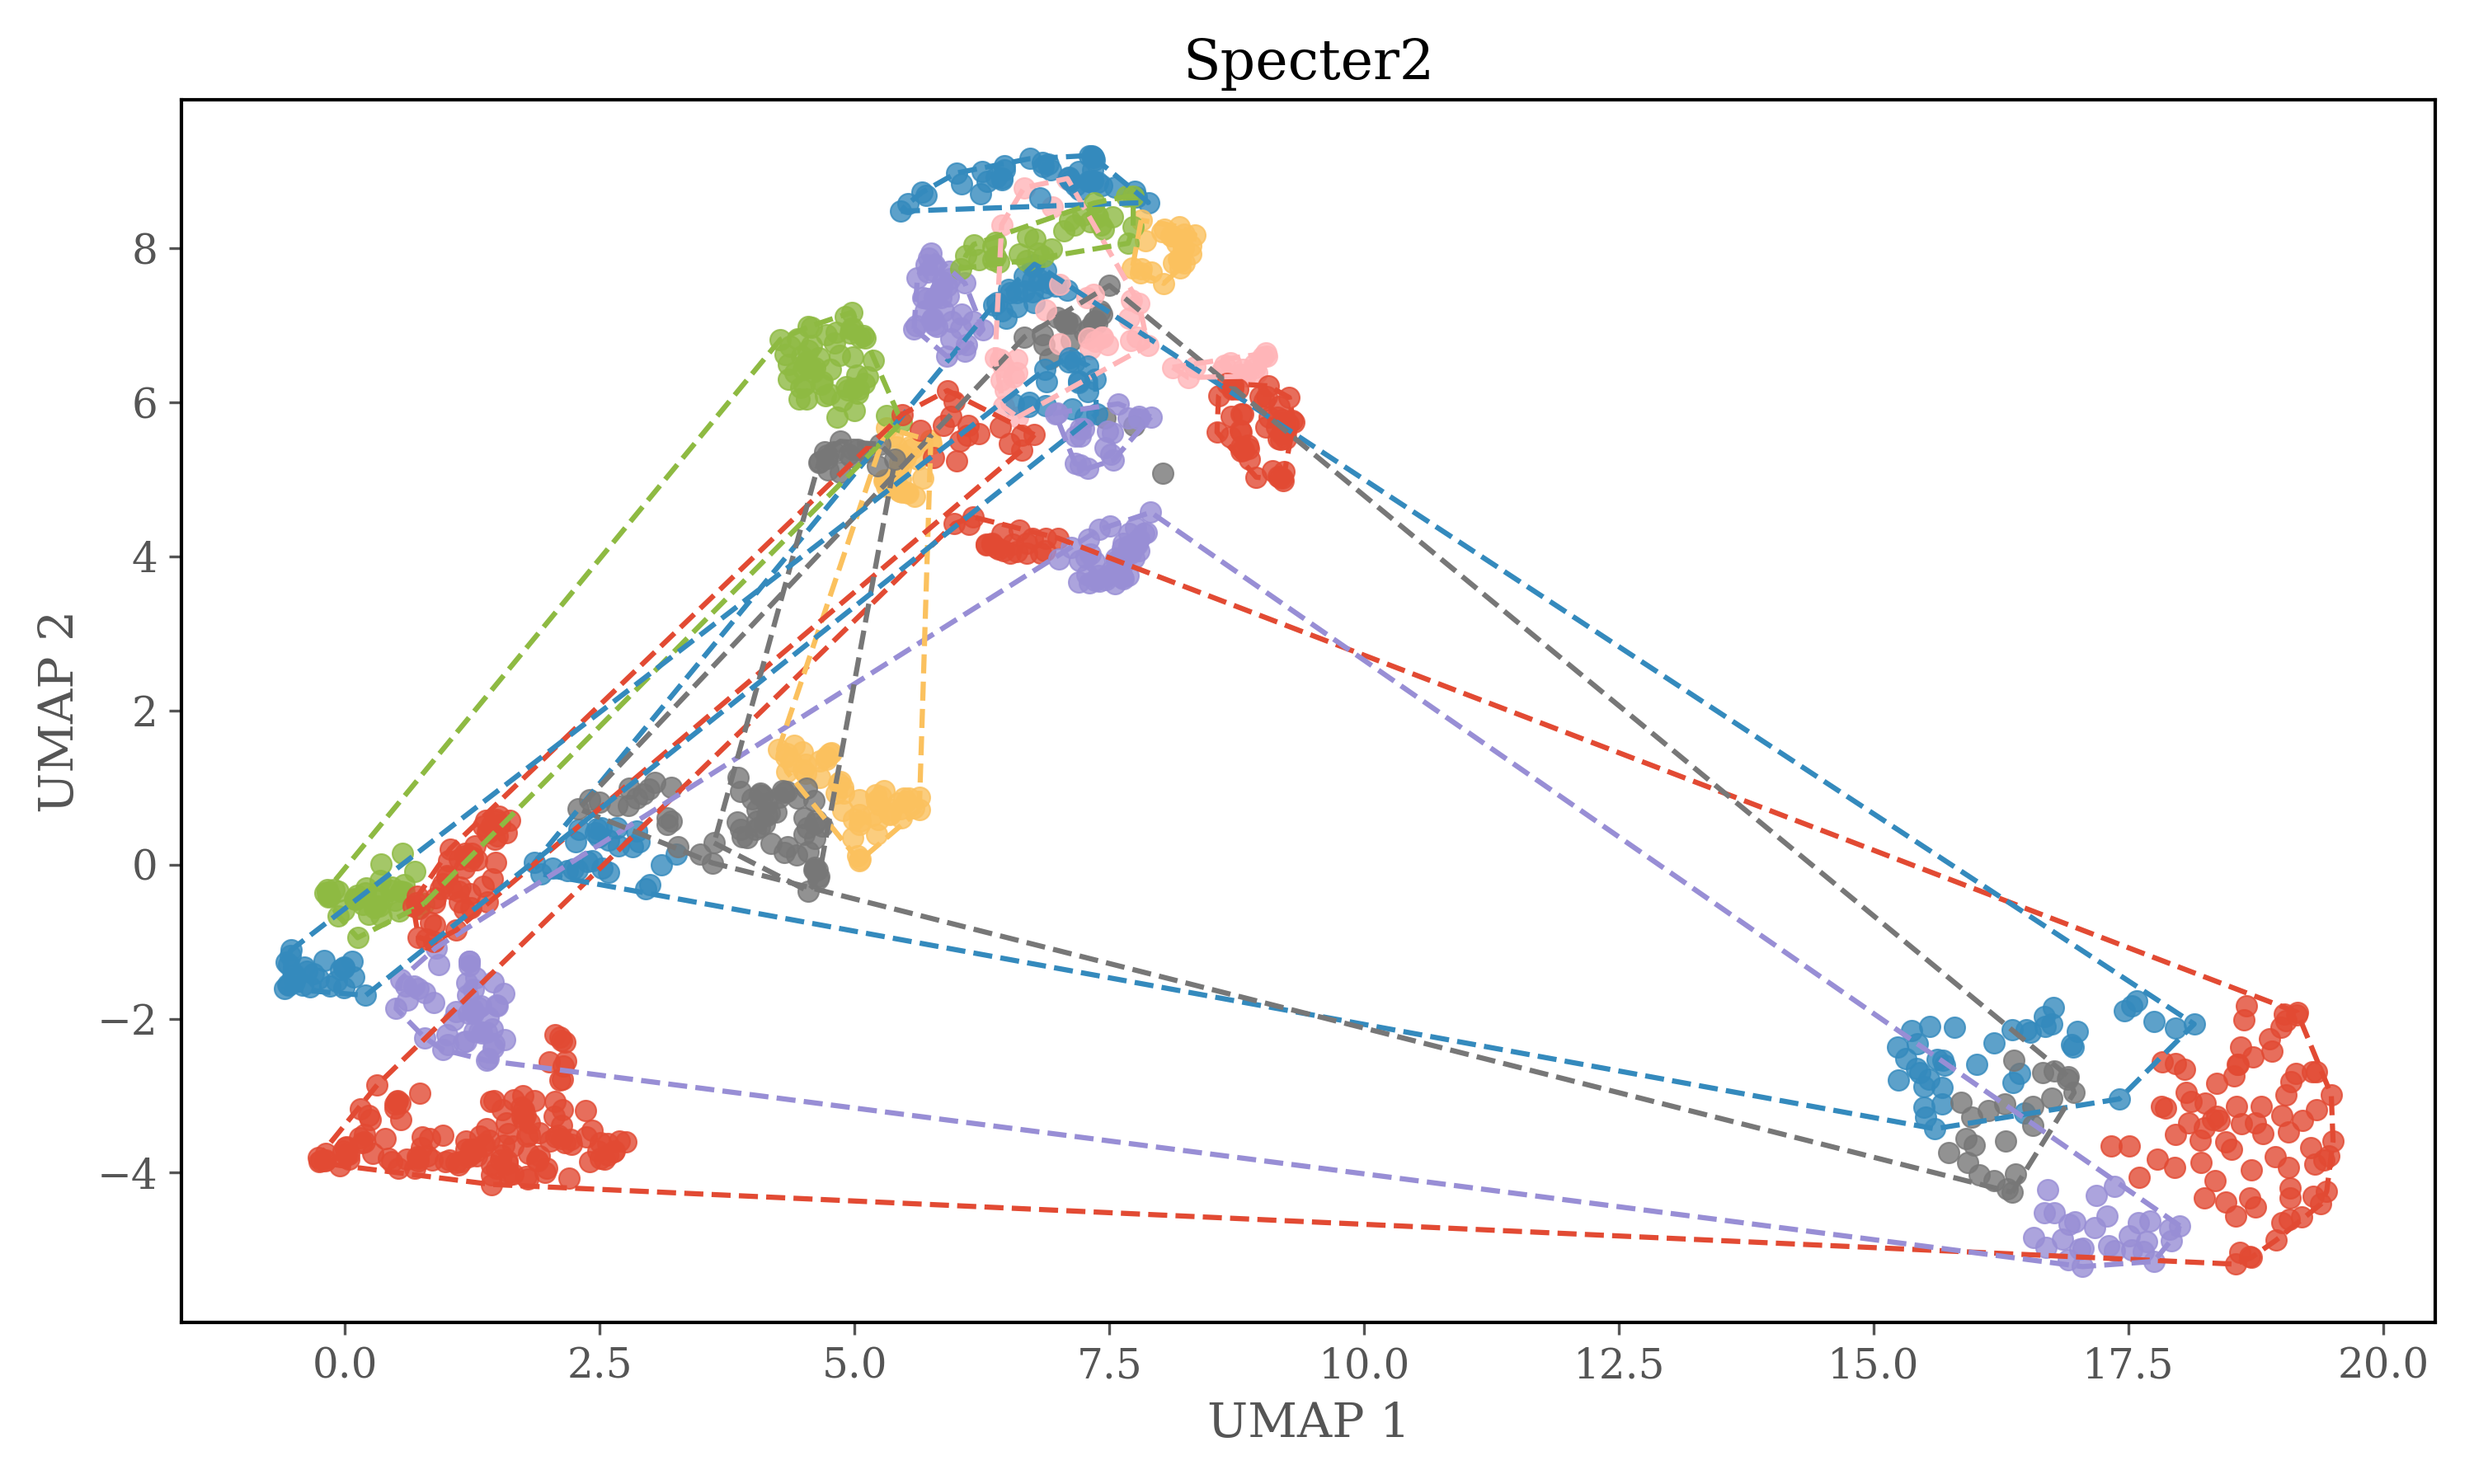
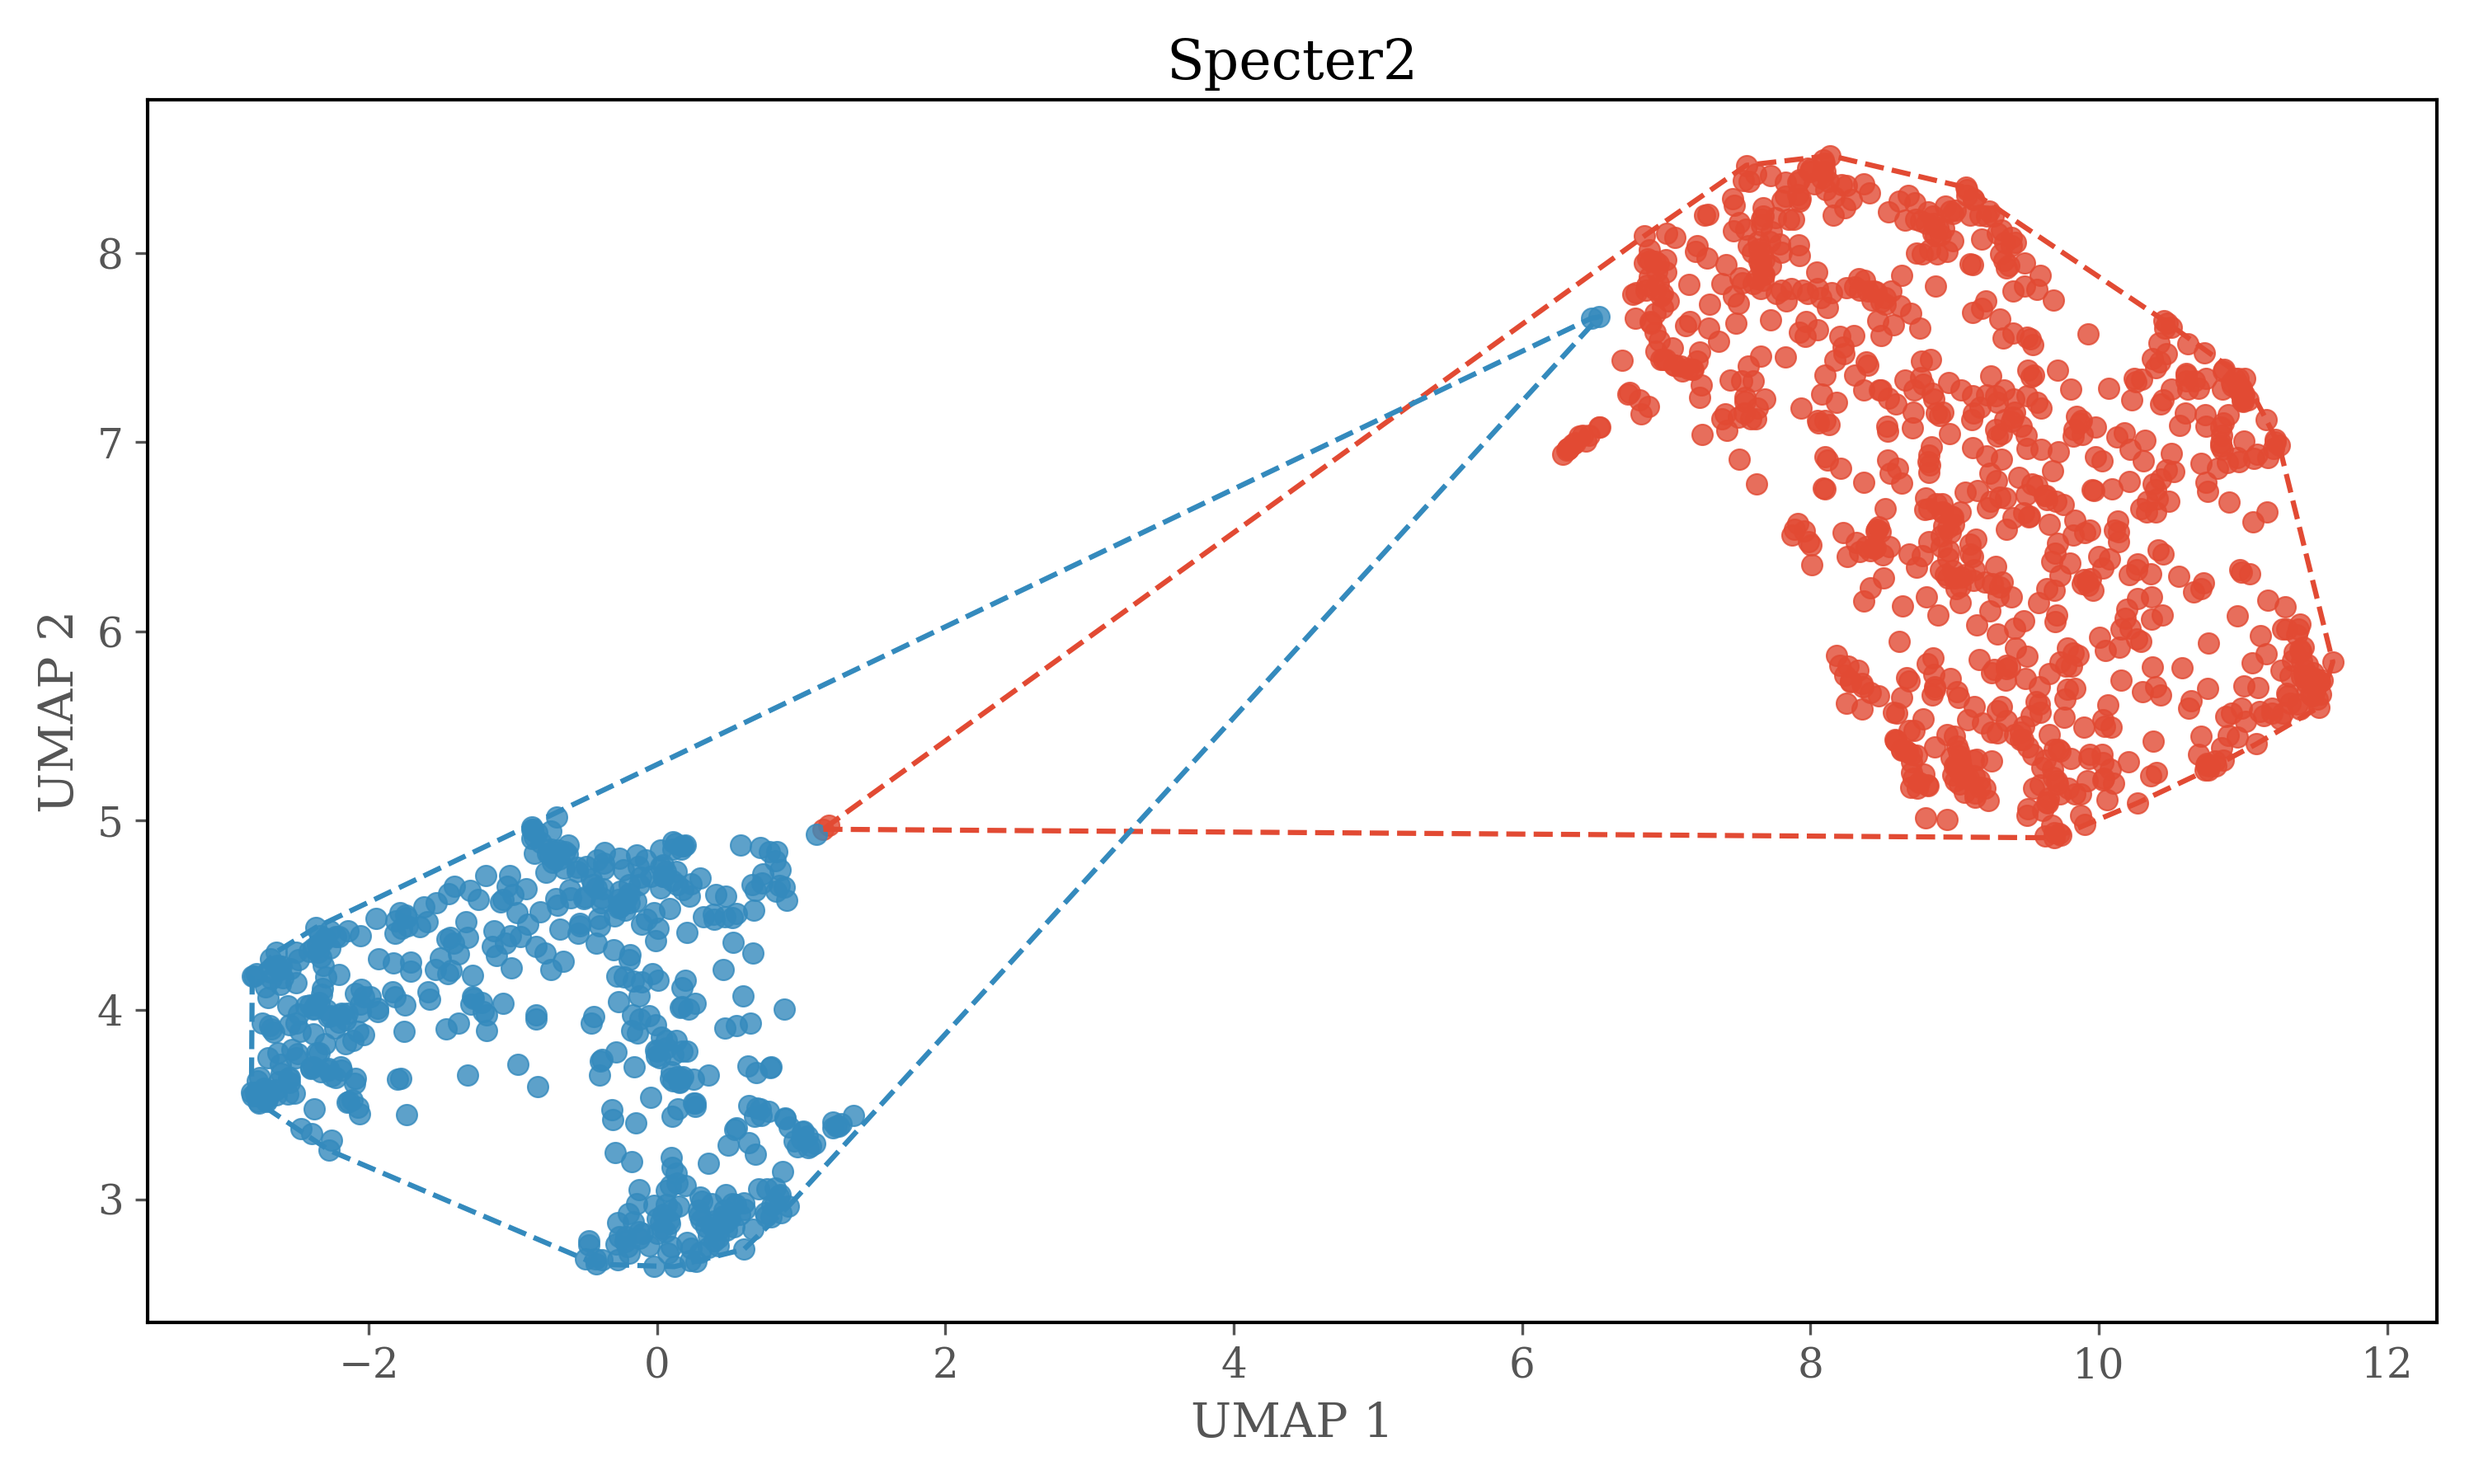
Merged plot

diff --git a/NewPipeline/vis_manual.py b/NewPipeline/vis_manual.py
@@ -2,7 +2,7 @@ import pandas as pd
 
 from plots.Individual_embeddings_plot import individual_embeddings_plot
 from plots.Merged_embeddings_plot import merged_embeddings_plot
-from NewPipeline.plots.set_plot_style import set_style
+from plots.set_plot_style import set_style
 
 import yaml
 with open('parameters.yaml', 'r') as file:
@@ -14,9 +14,11 @@ models = ['Specter2'] # , 'XLM_Roberta', 'MiniLm12'
 sources = ['pro', 'reg', 'sci']
 
 for model in models:
-    clustering = pd.read_csv(f'NewPipeline/clustering_outputs/{model}_clustering.csv')
+    merged_clusters = pd.read_csv(f'NewPipeline/clustering_outputs/{model}_merged_clustering.csv')
 
-    merged_embeddings_plot(clustering, model)
+    merged_embeddings_plot(merged_clusters, model)
+
+    clustering = pd.read_csv(f'NewPipeline/clustering_outputs/{model}_clustering.csv')
 
     for source in sources:
 
